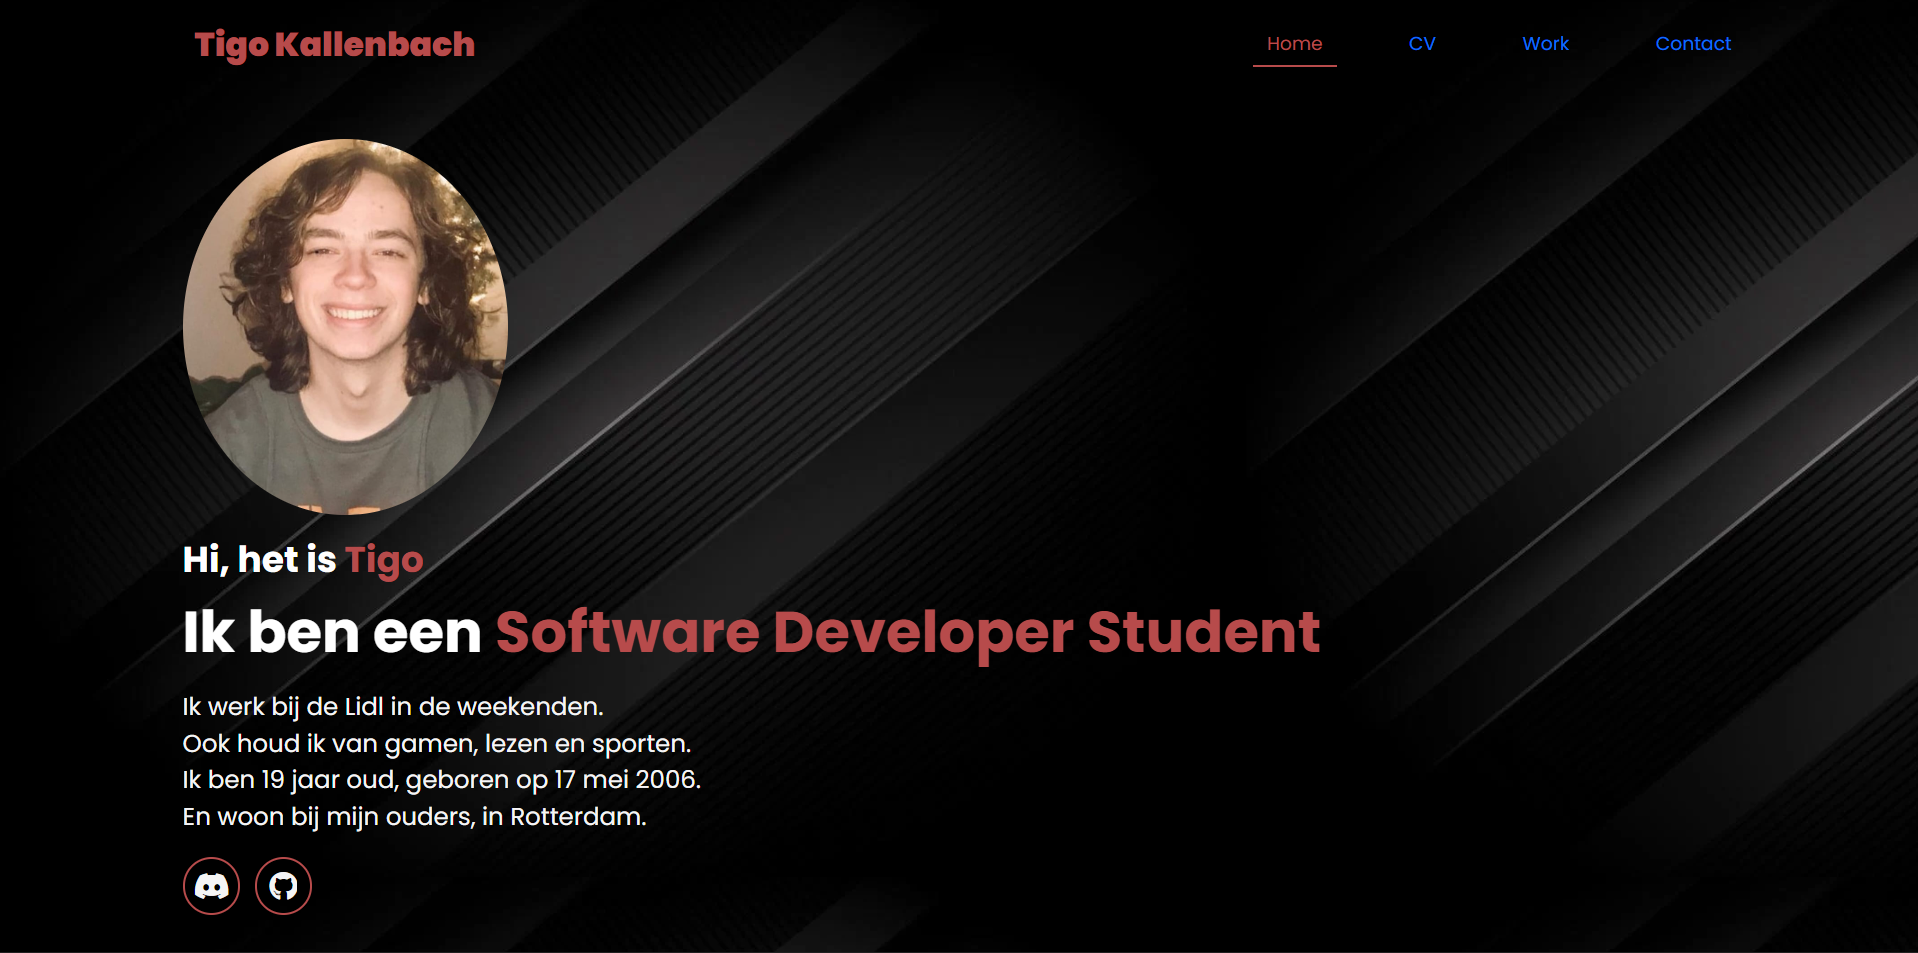
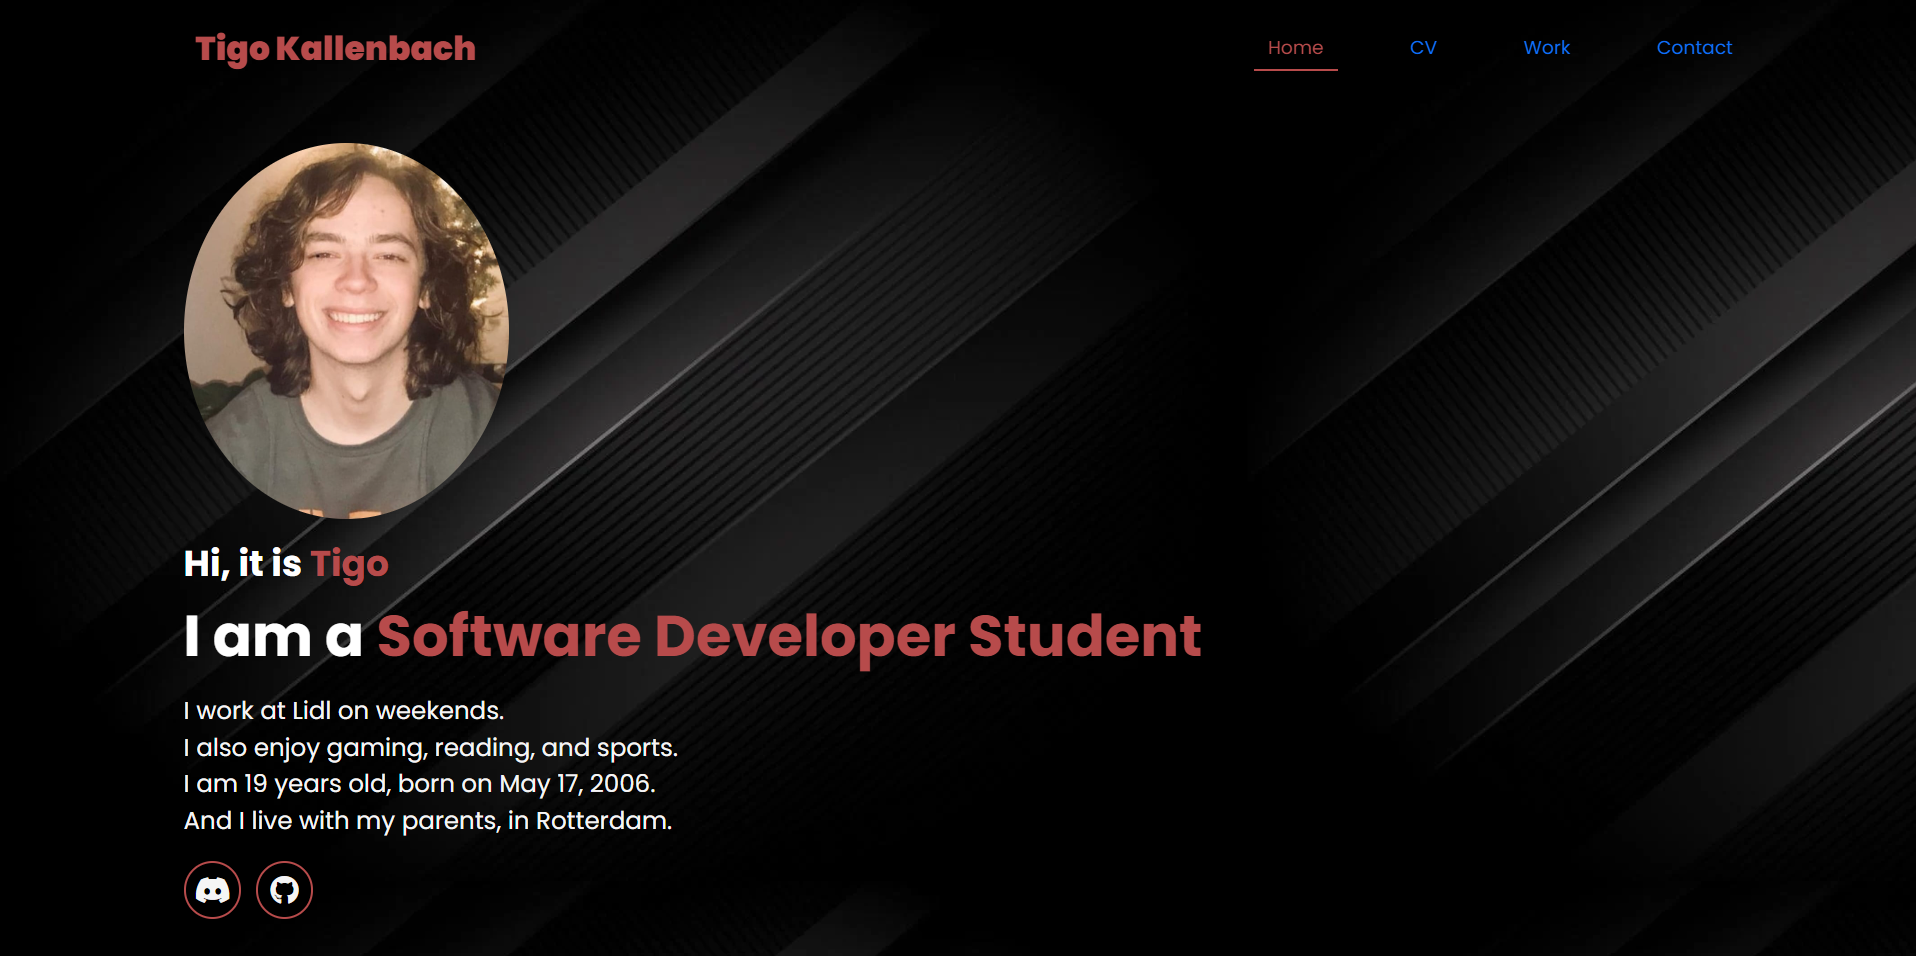
added a project and some minor bug fixes

diff --git a/pages/index.html b/pages/index.html
@@ -69,14 +69,14 @@
             </div>
 
             <div class="home-content text-white text-start">
-              <h1 class="mb-3">Hi, het is <span>Tigo</span></h1>
-              <h3 class="typing-text mb-4">Ik ben een <span></span></h3>
+              <h1 class="mb-3">Hi, it is <span>Tigo</span></h1>
+              <h3 class="typing-text mb-4">I am a <span></span></h3>
 
               <p class="mb-4">
-                Ik werk bij de Lidl in de weekenden. <br>
-                Ook houd ik van gamen, lezen en sporten. <br>
-                Ik ben 19 jaar oud, geboren op 17 mei 2006. <br>
-                En woon bij mijn ouders, in Rotterdam.
+                I work at Lidl on weekends. <br>
+                I also enjoy gaming, reading, and sports. <br>
+                I am 19 years old, born on May 17, 2006. <br>
+                And I live with my parents, in Rotterdam.
               </p>
       
               <div class="social-icons d-flex gap-3">

diff --git a/content/css/style.css b/content/css/style.css
@@ -9,6 +9,14 @@
     color: whitesmoke;
 }
 
+html {
+    scrollbar-width: none;
+    -ms-overflow-style: none;
+}
+html::-webkit-scrollbar {
+    display: none;
+}
+
 body {
     background-image: url(../images/background.png);
     background-color: transparent;
@@ -205,6 +213,12 @@ span{
 #projects-container .card:hover {
     transform: scale(1.003);
     box-shadow: 0 8px 16px rgba(0, 0, 0, 0.3);
+}
+
+#projects-container .card-img-top {
+    max-width: 100%;
+    max-height: 325px;
+    object-fit: contain;
 }
 
 #projects-container .card-title {
